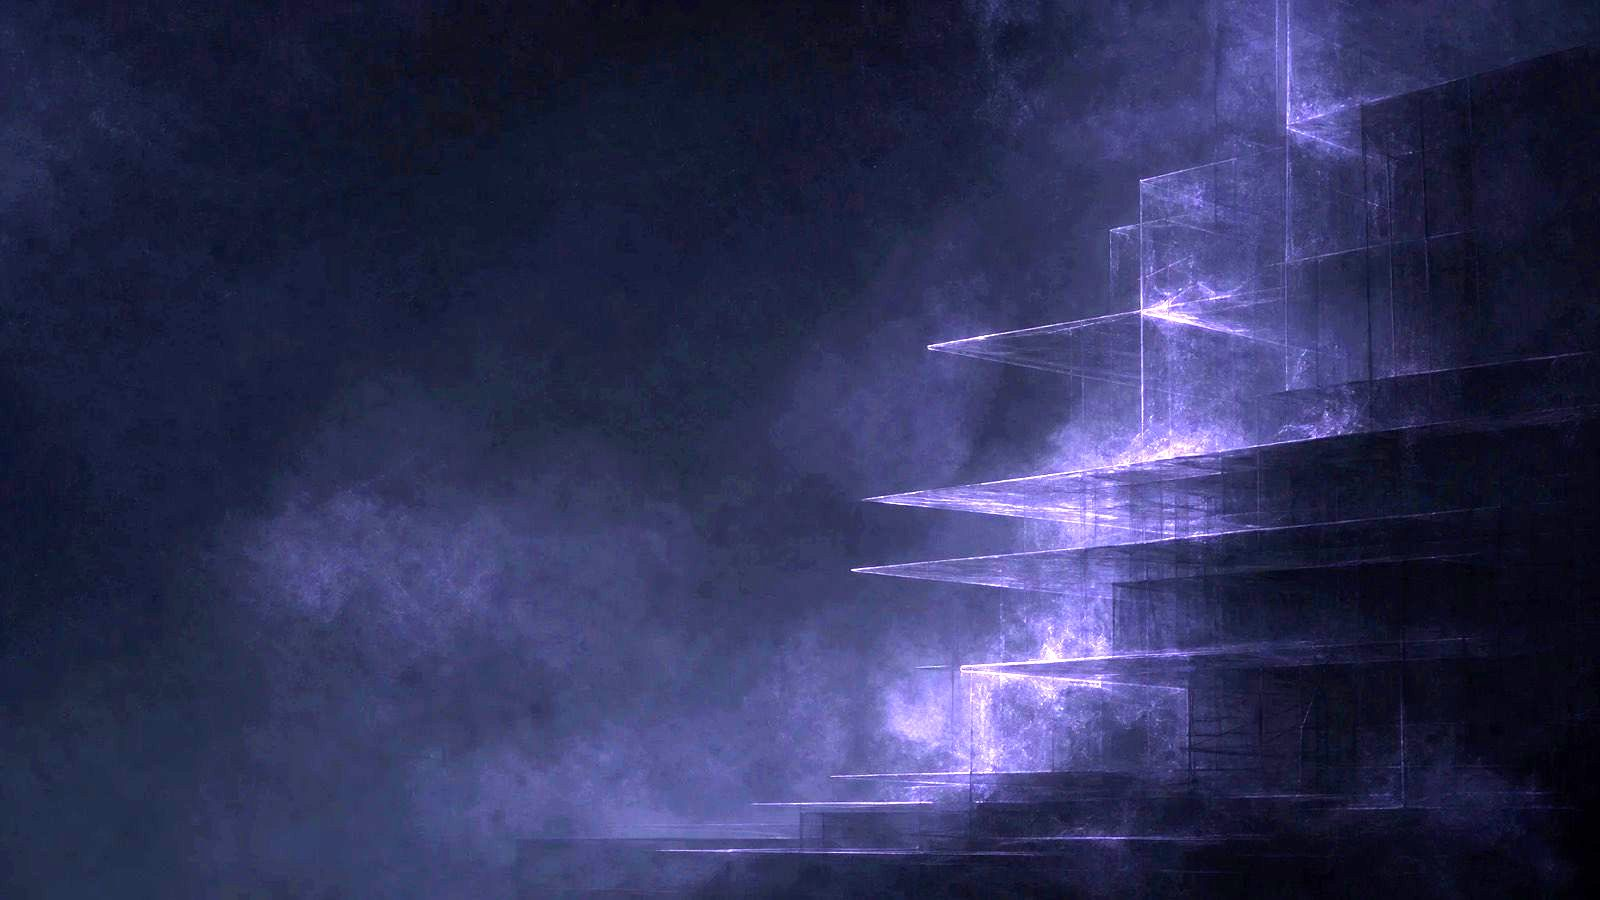
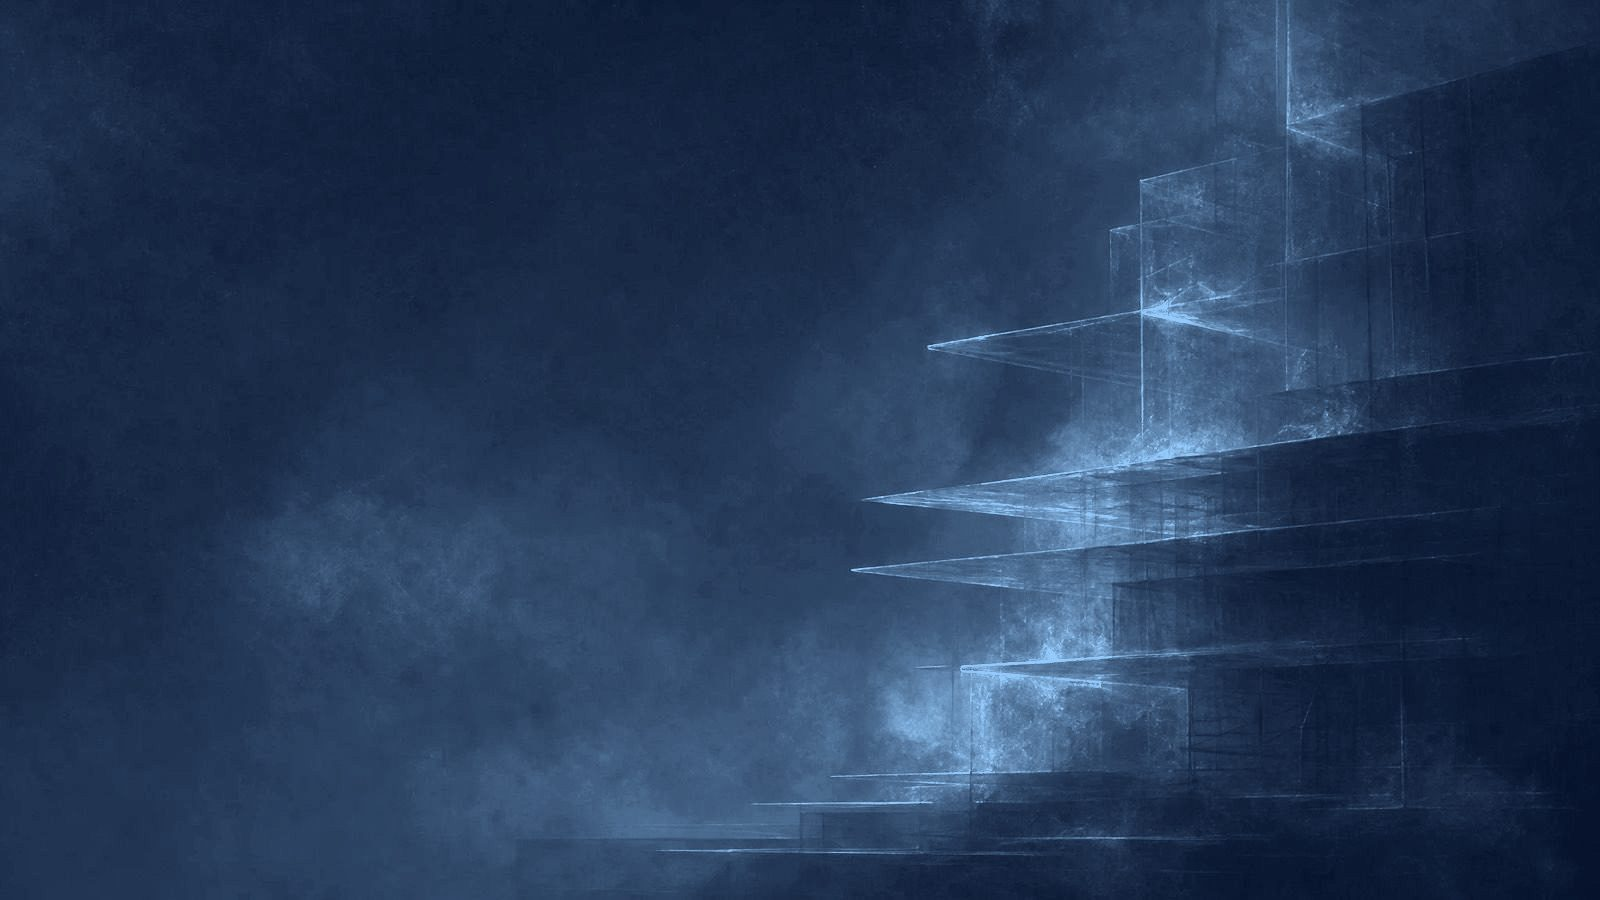
design: one blue family instead of six hues, per the 25 Aug review
Huw's call: backgrounds are a single blue tone, soft 3D, not multicoloured.
Differentiation between pools now comes from the imagery rather than from
colour.

The six accents move to one blue ramp, light cyan through to deep navy,
keeping enough separation that the pools are still distinguishable. Amber,
mint, violet and magenta are gone.

The placeholder plates are re-graded to a navy-to-blue duotone as an
interim so the demo is coherent today. Structure and brightness are
untouched: measured open-side means stay in the 54 to 60 band against the
57 target the set was normalised to. Evelyn is producing the real
soft-3D blue set, two to three options per pool, so this is a file swap
when they arrive.

Poster frames are deliberately left in colour. Huw's instruction was about
backgrounds, and the films are meant to animate from blue into colour, so
the stills standing in for them should not be flattened.

diff --git a/src/data.js b/src/data.js
@@ -93,7 +93,7 @@ export const POOLS = [
         metric: { value: '0', label: 'records exposed' },
       },
     ],
-    accent: 0x35d0f5,
+    accent: 0x5ad2f5, // Data for AI          light cyan-blue
     viz: 'lattice',
   },
   {
@@ -136,7 +136,7 @@ export const POOLS = [
         metric: { value: '6', label: 'weeks to onboard a tool' },
       },
     ],
-    accent: 0x4f9dff,
+    accent: 0x4f9dff, // AI Strategy          core blue, unchanged
     viz: 'orbit',
   },
   {
@@ -179,7 +179,7 @@ export const POOLS = [
         metric: { value: '3', label: 'regimes satisfied' },
       },
     ],
-    accent: 0x7ee0c0,
+    accent: 0x7fc4ff, // AI Trust             pale sky, was mint
     viz: 'shield',
   },
   {
@@ -222,7 +222,7 @@ export const POOLS = [
         metric: { value: '22%', label: 'more moves per hour' },
       },
     ],
-    accent: 0xffb454,
+    accent: 0x3f86e0, // Physical AI          mid blue, was amber
     viz: 'pulse',
   },
   {
@@ -265,7 +265,7 @@ export const POOLS = [
         metric: { value: '60%', label: 'faster change cycle' },
       },
     ],
-    accent: 0xb08bff,
+    accent: 0x5a7fd6, // Agentic Legacy       slate blue, was violet
     viz: 'rebuild',
   },
   {
@@ -308,7 +308,7 @@ export const POOLS = [
         metric: { value: '35%', label: 'reduction in delay cost' },
       },
     ],
-    accent: 0xff7ab0,
+    accent: 0x2e63c8, // Process AI           deep navy, was pink
     viz: 'flow',
   },
 ];

diff --git a/README.md b/README.md
@@ -208,8 +208,18 @@ Two knobs:
 A missing texture leaves the quad blank and the base colour shows, the same
 resolve-if-present behaviour as the videos, so a bad filename never breaks it.
 
-**These are placeholder**, generated with `openai/gpt-image-2` — abstract, one
-accent hue each, with the left half deliberately empty for the copy.
+**These are placeholder**, and as of the 25 Aug review they are also **interim**.
+Huw's call is that every background is a single blue tone, soft 3D and slightly
+realistic, rather than one hue per pool. Evelyn is producing the real set, two to
+three options per pool, working from the Physical AI visual in the intro video.
+
+Until those land, the generated plates have been re-graded to a navy-to-blue
+duotone so the demo reads coherently. Structure and brightness are unchanged, only
+hue. Replacing them is a straight file swap.
+
+The six accents moved with them: they are now one blue family running light cyan
+to deep navy rather than six separate hues. Differentiation between pools comes
+from the imagery now, not from colour.
 
 They were generated far too dark to see (17-34 mean luminance on their open side,
 against a page ground of ~6) and then normalised: each plate is brightness-scaled
